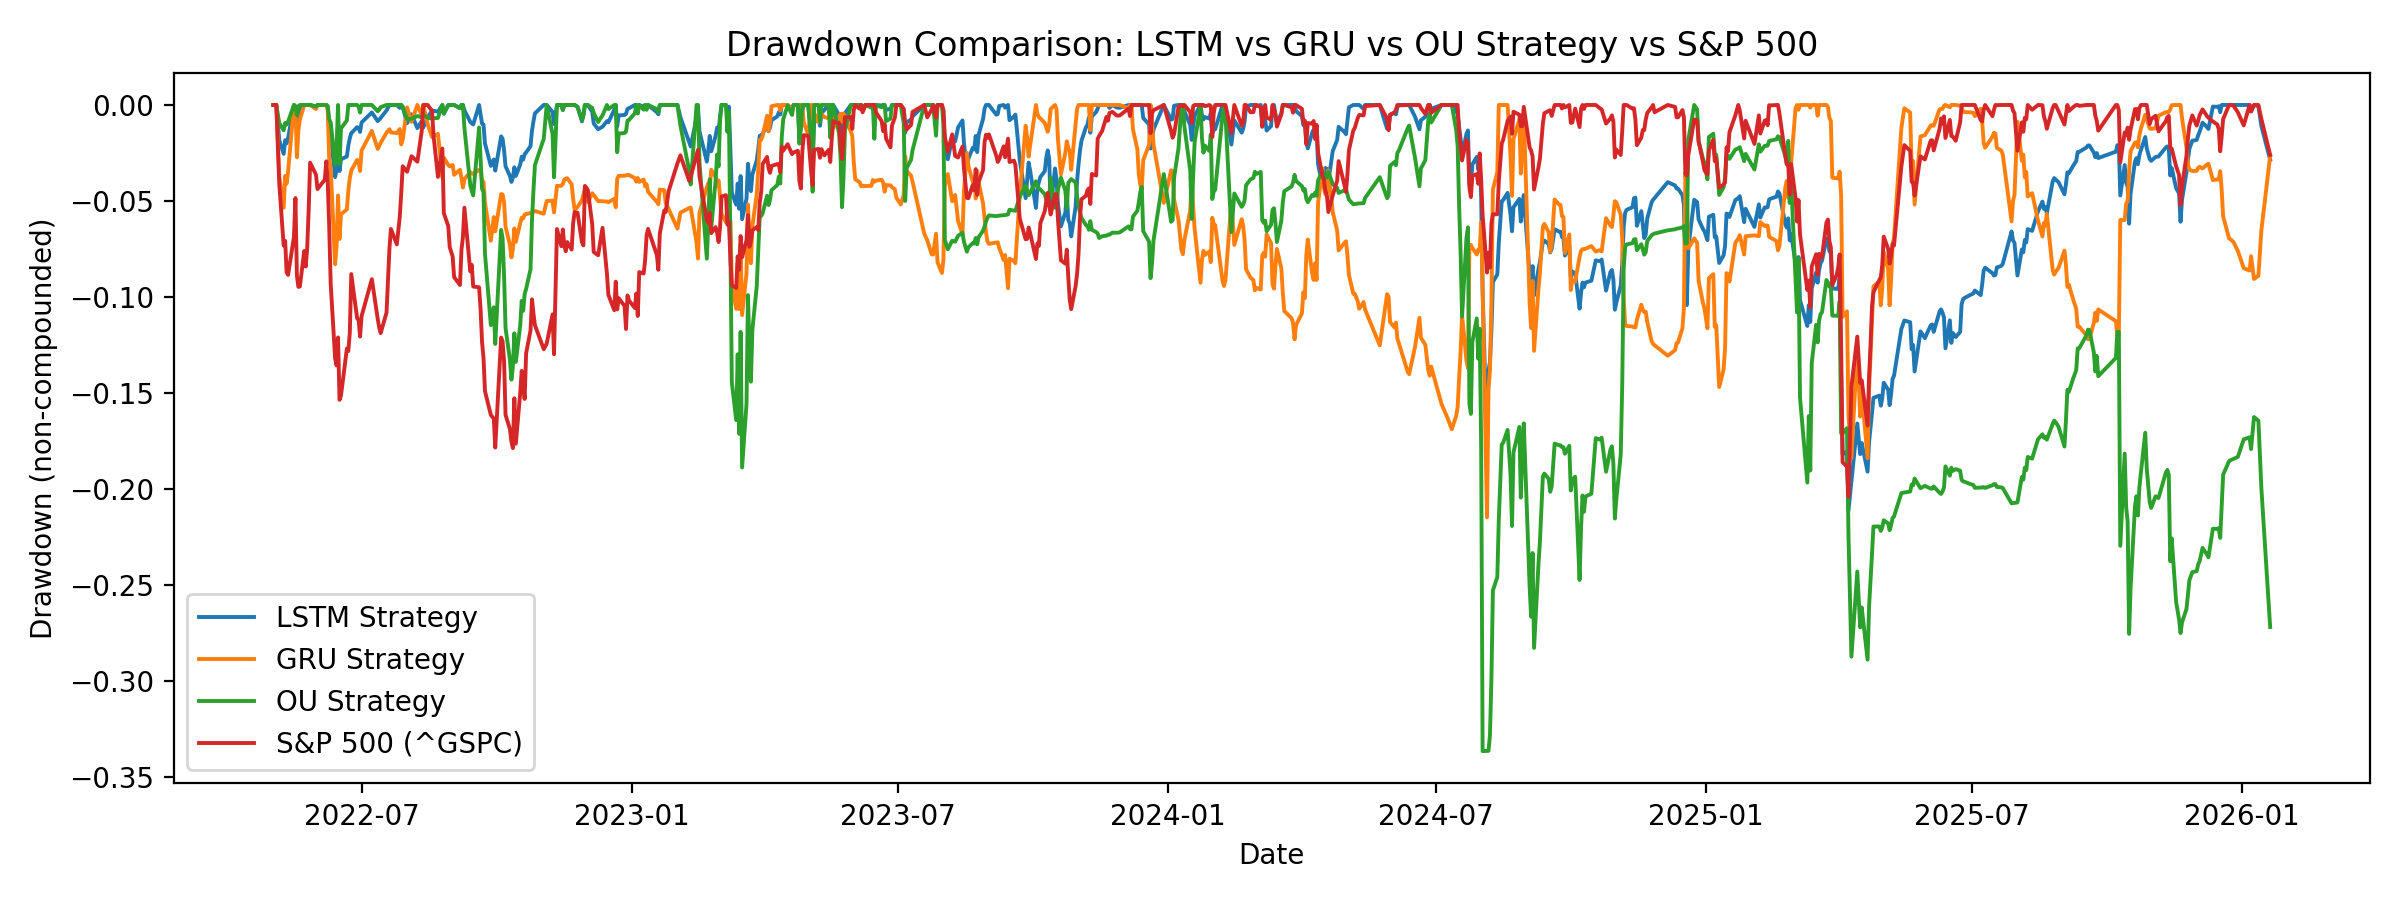
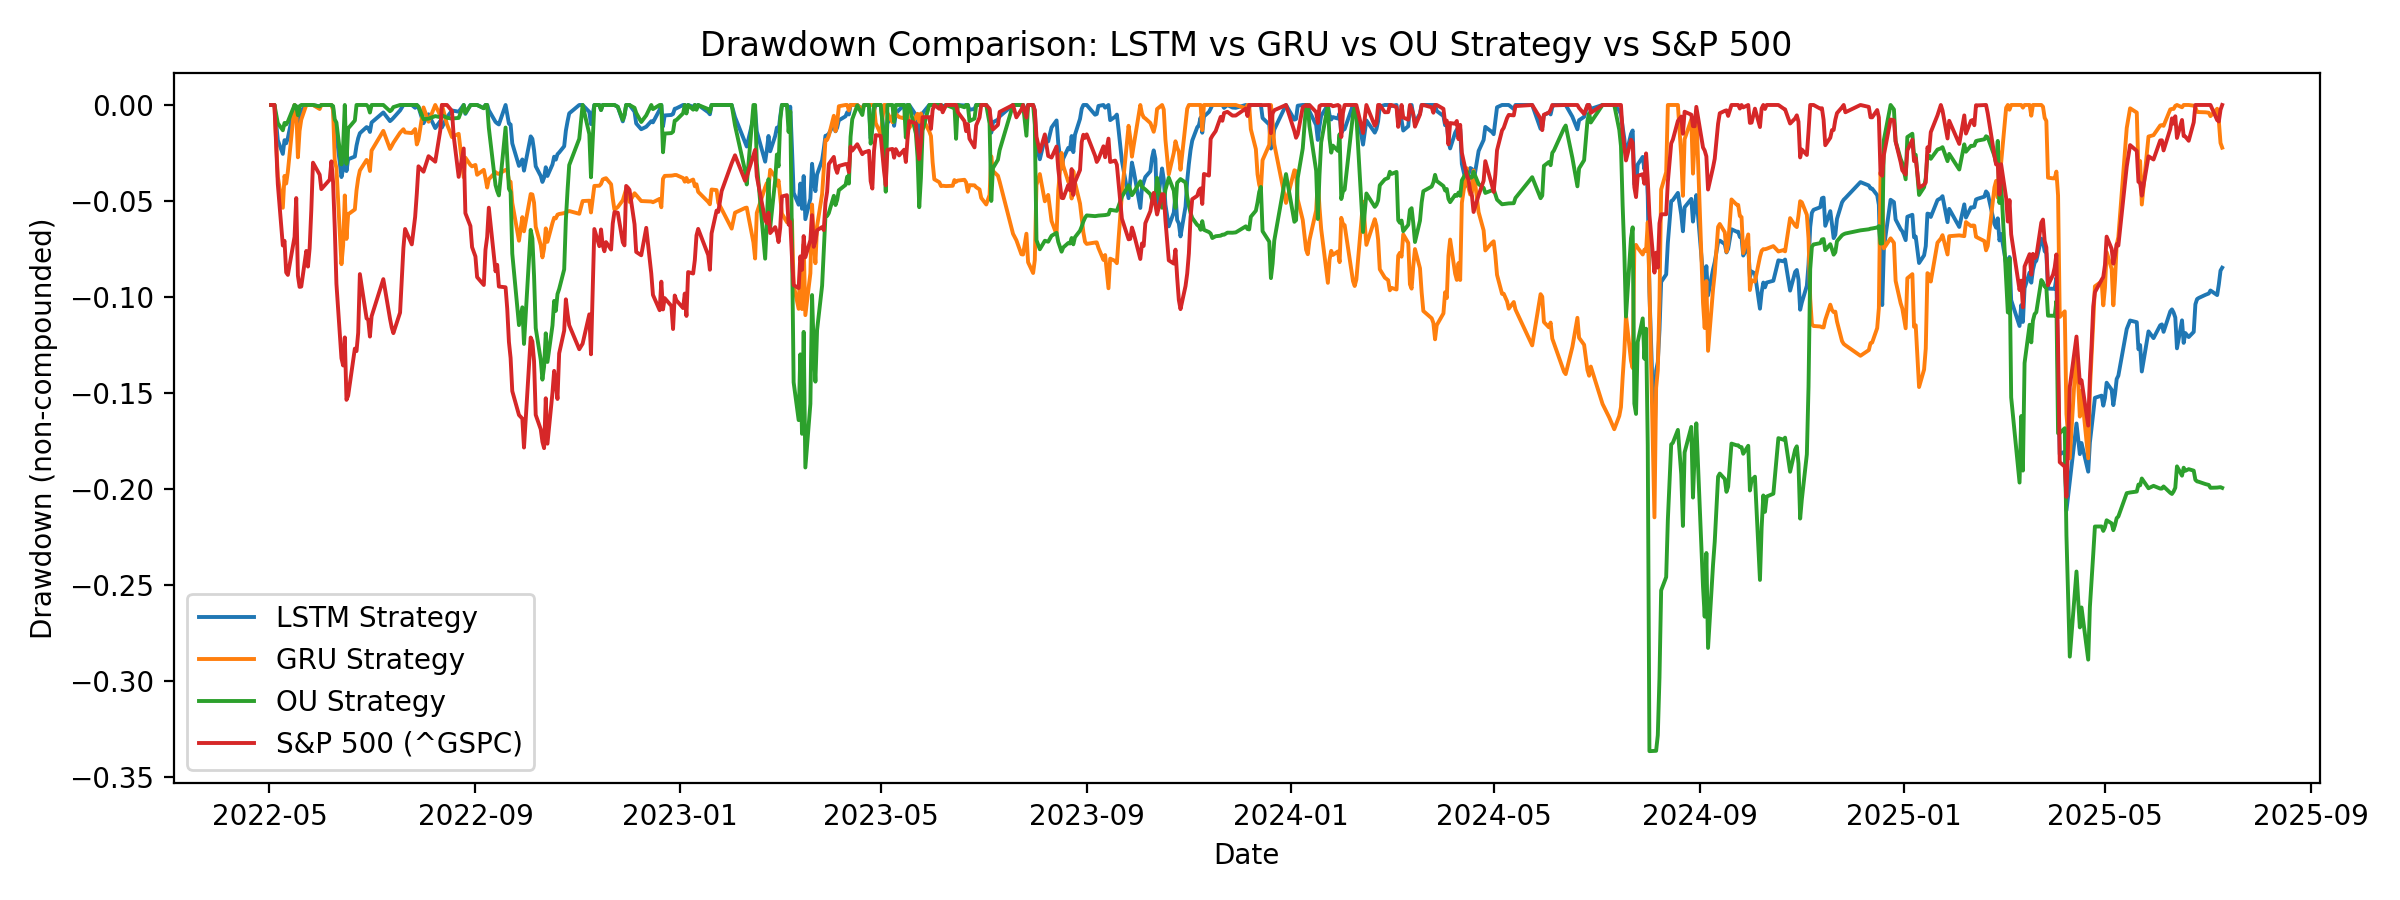
Final Thesis

diff --git a/run_compare_benchmarks.py b/run_compare_benchmarks.py
@@ -28,6 +28,8 @@ def _to_series(obj, name: str) -> pd.Series:
 
 def main():
     USE_TEST_ONLY = False
+    TRADING_END = "2025-07-31"
+    PLOT_END = "2025-07-31"
 
     ou_params = dict(
         cost_bps=1.0,
@@ -72,7 +74,7 @@ def main():
         vix_path="data/VIX_History.csv",
         traded_ticker="VXX",
         traded_start="2020-05-01",
-        traded_end="2026-02-07",
+        traded_end=TRADING_END,
         split_date="2020-05-01",
         params=ou_params,
         make_plots=False,
@@ -92,8 +94,8 @@ def main():
     ou_wealth = ou_wealth / float(ou_wealth.iloc[0])
 
     start = str(ou_wealth.index.min().date())
-    end = str(ou_wealth.index.max().date())
-    print(f"Master date range: {start} -> {end} ({tag})")
+    print(f"Trading date range: {start} -> {ou_wealth.index.max().date()} ({tag})")
+    print(f"Plot date range: {start} -> {PLOT_END} ({tag})")
 
     benchmarks = {
         "VXX Buy & Hold": "VXX",
@@ -102,12 +104,18 @@ def main():
 
     bench_wealth = {}
     for label, ticker in benchmarks.items():
-        px = load_yahoo_adjclose(ticker, start=start, end=end)
+        px = load_yahoo_adjclose(ticker, start=start, end=PLOT_END)
         px = _to_series(px, name=label)
         w = prices_to_wealth(px)
         w = _to_series(w, name=label)
         w = w / float(w.iloc[0])
         bench_wealth[label] = w
+
+    comparison_index = ou_wealth.index
+    for w in bench_wealth.values():
+        comparison_index = comparison_index.union(w.index)
+    comparison_index = comparison_index.sort_values()
+    ou_wealth = ou_wealth.reindex(comparison_index).ffill()
 
     plot_wealth_comparison(
         ou_wealth=ou_wealth,

diff --git a/run_lstm_benchmark.py b/run_lstm_benchmark.py
@@ -24,7 +24,7 @@ from src.run_ou_vix import run_ou_vix
 RNN_DATA_START = "2018-01-01"
 TRADED_START = "2020-05-01"
 MODEL_SPLIT_DATE = "2022-05-01"
-TRADED_END = "2026-02-07"
+TRADED_END = "2025-07-31"
 
 
 def _to_series(obj, name: str) -> pd.Series:
